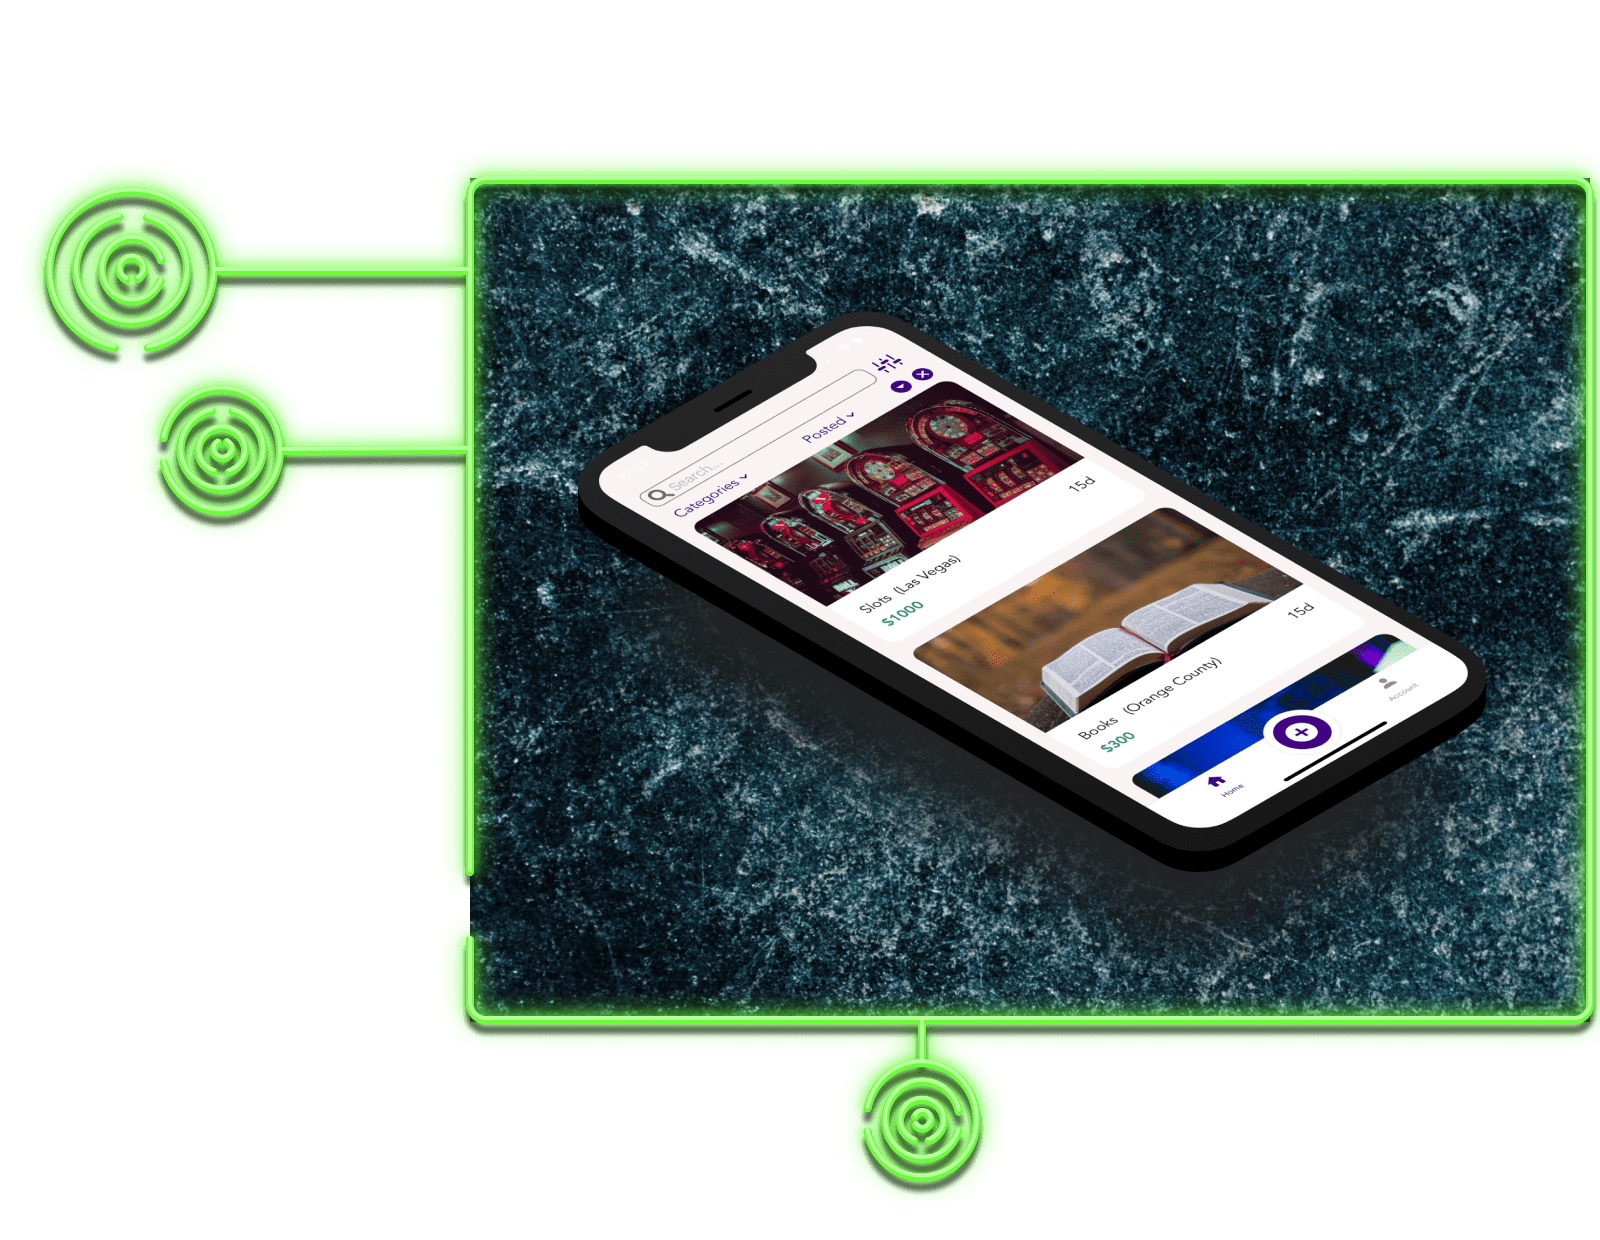
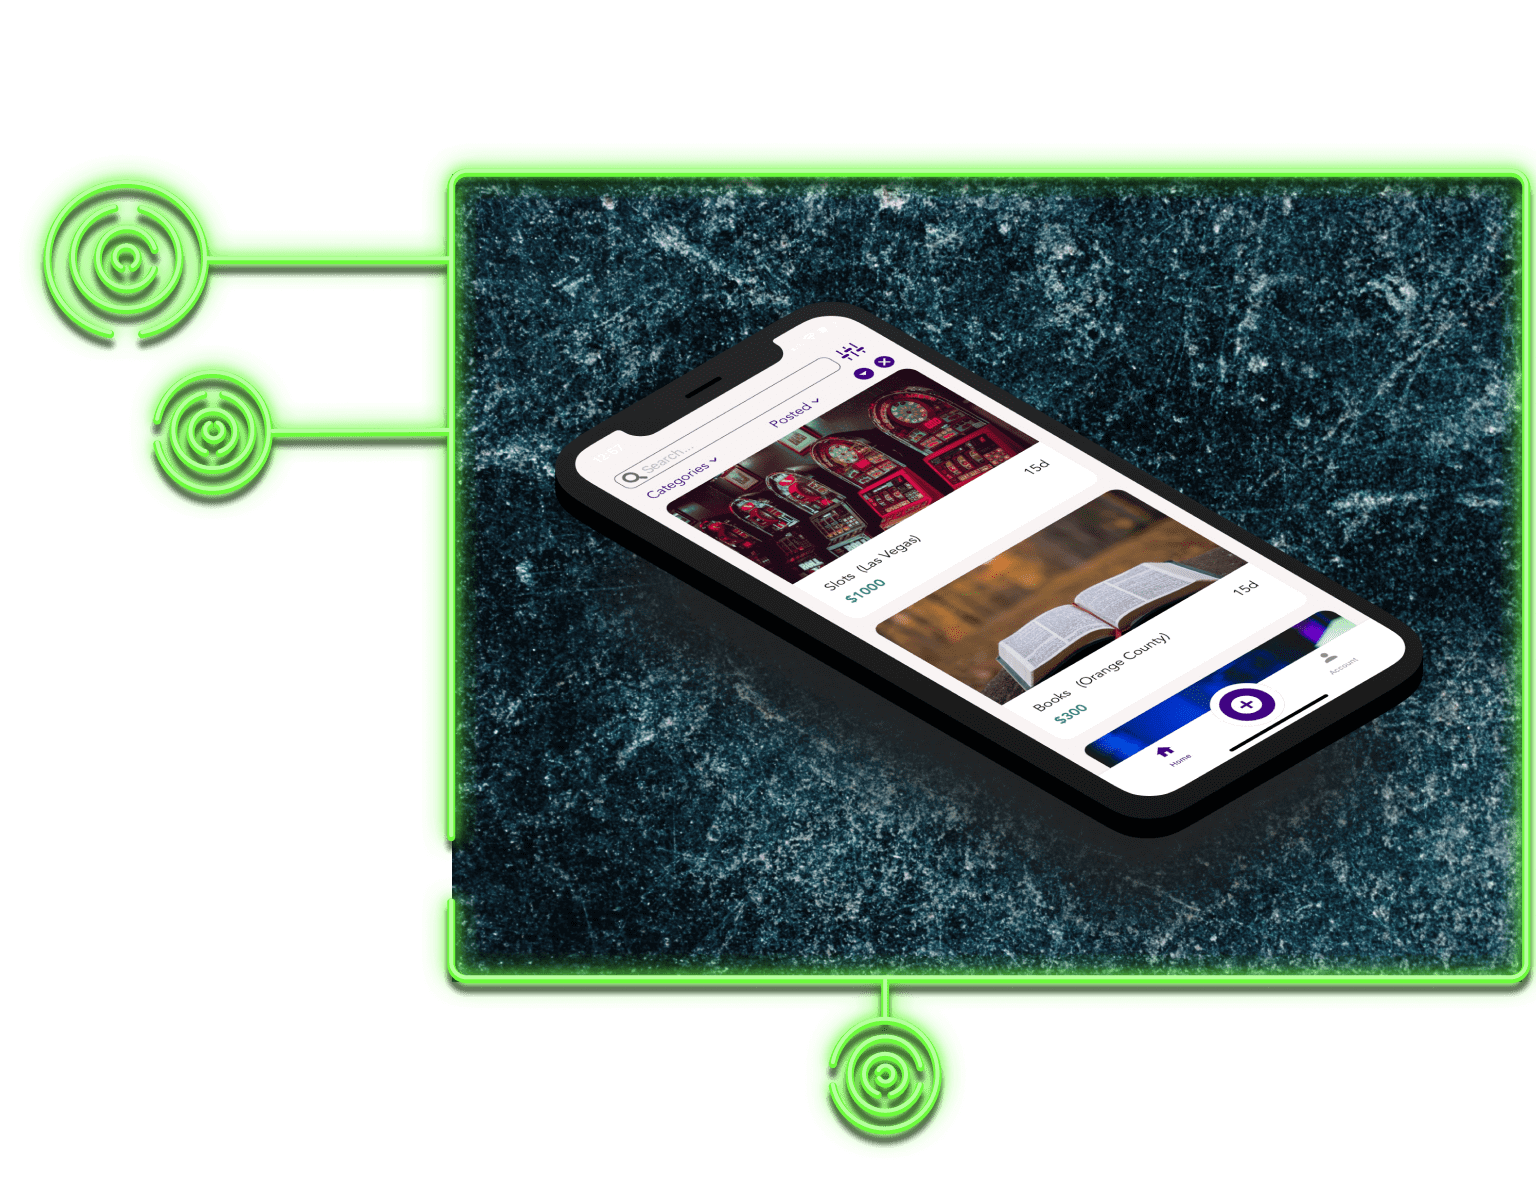
imaged optimized changed position to absolute image hero section

Changed region(s): [[0.2812, 0.1553, 1.0, 0.8388], [0.5938, 0.5281, 0.7812, 0.6524], [0.5625, 0.8699, 0.5938, 0.932]]

diff --git a/components/HeroSection.js b/components/HeroSection.js
@@ -8,9 +8,13 @@ import Heading from "../assets/Heading";
 const HeadingContainer = styled.div`
   width: 100%;
   max-width: 100rem;
+  position: absolute;
+  top: 40%;
+  left: 50%;
+  transform: translate(-50%, -50%);
   ${mediaQueries("desktopS")`
      width: 90vw;
-  `}
+  `};
 `;
 
 const HeroSectionContainer = styled.section`

diff --git a/components/Project.js b/components/Project.js
@@ -19,8 +19,8 @@ const Project = ({ source, altText }) => {
       <Image
         src={source}
         alt={altText}
-        width={1600}
-        height={1240}
+        width={1536}
+        height={1191}
         layout="responsive"
       />
     </ProjectImageContainer>
